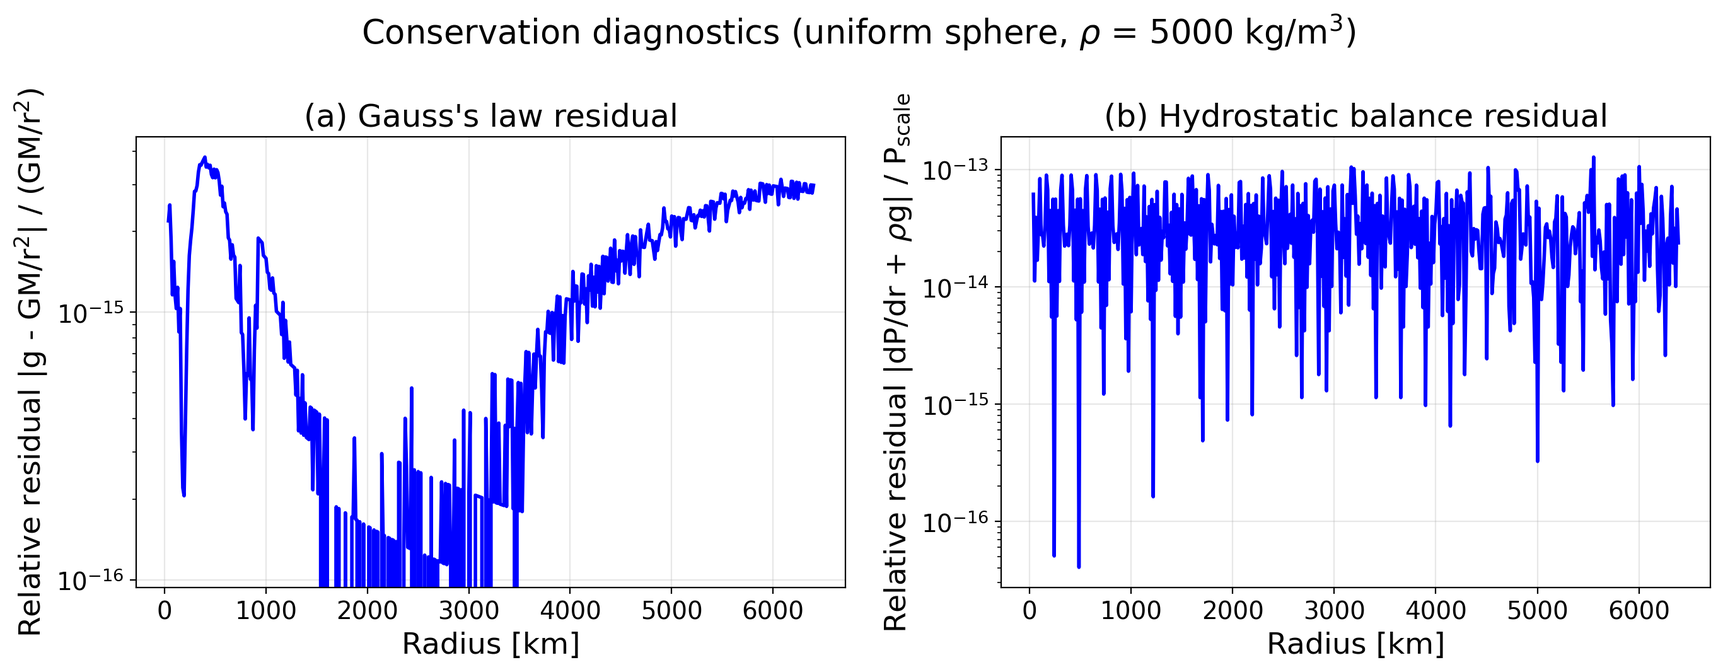
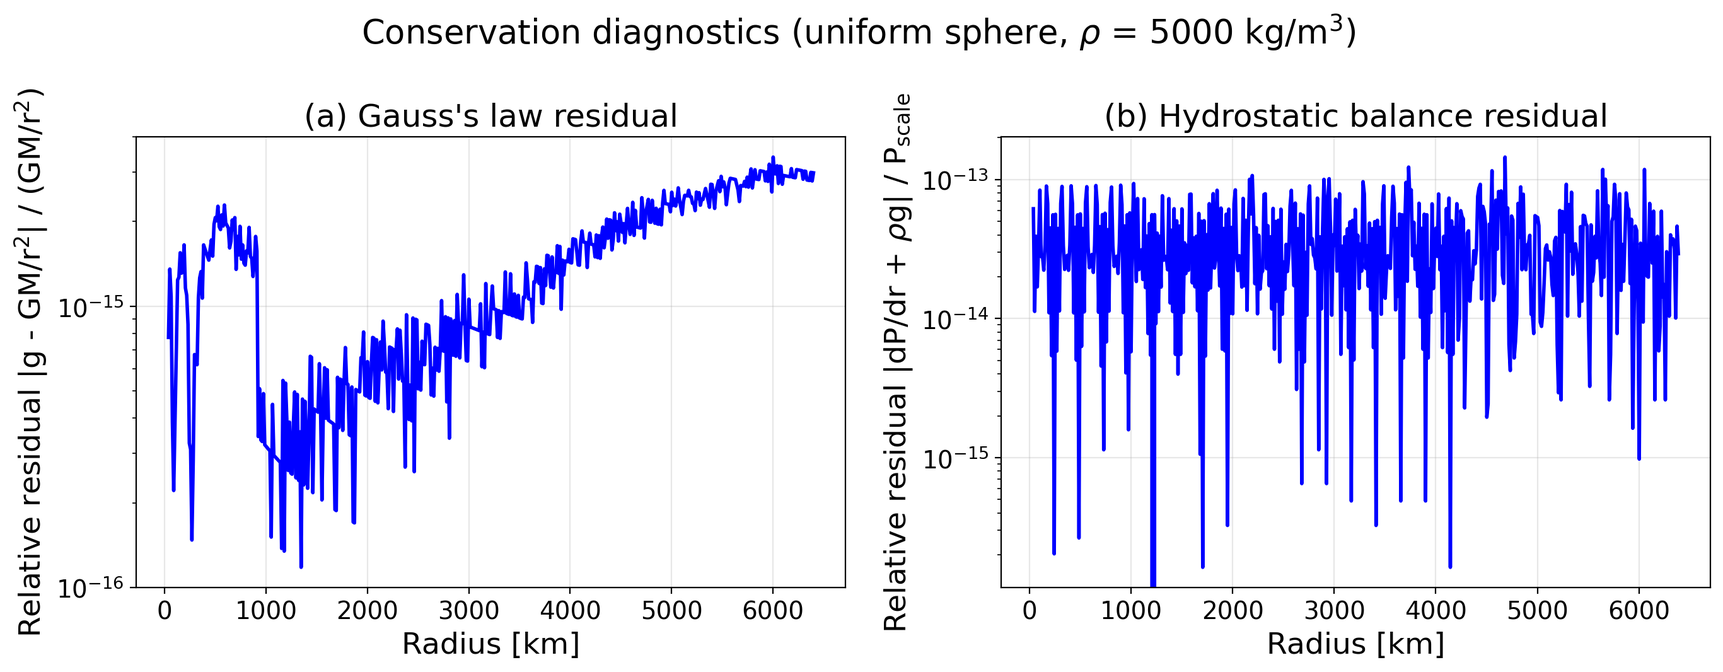
Define the terms and fix the numbers of the structure validation and tutorial pages
The validation page defines the Earth radius, the pressure solve and Brent's method, groups the cases by the density law they use, separates the computed central slope from the centre limit, and quotes the residuals of the current conservation figure, which is made again from the validation script. The index lists the 2 surface boundary cases. The tutorial defines the accept labels and the surface stop, writes its plot under output/, and states that a reached Newton profile can still miss P_t. The coupling page limits the P = 0 rebuild to the JAX path.

diff --git a/docs/Validation/hydrostatic_structure.md b/docs/Validation/hydrostatic_structure.md
@@ -14,20 +14,23 @@ The [overview](index.md) lists every case of the tab.
 **Terms of this page.**
 
 - $r$ and $R$: the radius, from 0 at the centre, and the outer radius of the planet.
+- $R_\oplus$: the Earth radius of `zalmoxis.constants`, 6335.4 km (the IAU value is 6371 km).
 - $M(r)$, $g(r)$, $P(r)$, $\rho(r)$: the mass inside radius $r$ (the enclosed mass, kg), the gravitational acceleration (m/s$^2$), the pressure (Pa) and the density (kg/m$^3$) at radius $r$; $G$ is the gravitational constant.
 - EOS (equation of state): the relation $\rho(P, T)$ between the density, the pressure and the temperature of a material.
 - CMB: the core-mantle boundary.
 - $N$ and `rtol`: the number of radial grid points, and the relative tolerance of the ODE integrator (RK45, an adaptive Runge-Kutta method of order 4 and 5).
 - Relative error: $|x_\mathrm{num} - x_\mathrm{exact}| / |x_\mathrm{exact}|$, the difference between the computed and the exact value, divided by the exact value.
 - Round-off level: a relative error of about $10^{-16}$ to $10^{-13}$, the size of the rounding error of floating-point arithmetic. A result at this level is exact within the precision of the computer.
-- Central pressure $P_c$: the pressure at the centre of the planet, the unknown of the pressure solve.
+- Central pressure $P_c$: the pressure at the centre of the planet.
+- Pressure solve: the loop that adjusts $P_c$ until the pressure at the outer radius equals the target surface pressure $P_t$ (written $P_\mathrm{target}$ on the process-flow page).
+- Brent's method (`scipy.optimize.brentq`): the root finder of the pressure solve. It narrows a bracket around a sign change of the residual and stops when the bracket is narrower than `xtol`.
 - Residual $f(P_c) = P(R) - P_t$: the pressure $P(R)$ at the outer radius $R$ minus the target surface pressure $P_t$.
 - Reached: the integration from a trial $P_c$ reaches the outer radius.
 - Padded: the integration stops before the outer radius, and the remaining nodes, the padded nodes, get zero pressure. The residual is then $-P_t$.
 - Sign pair: 2 neighbouring evaluated central pressures, with a finite negative residual at the lower one and a finite positive residual at the higher one, so $f$ changes sign between them. The higher one is the reached end.
 - PALEOS: the tabulated equations of state for iron, MgSiO$_3$ and water that Zalmoxis uses as its standard ([EOS physics](../Explanations/eos_physics.md)).
 - JAX path: an optional version of the structure integration in JAX, a Python library for compiled numerical code; it is off by default.
-- Picard outer solver: the default outer loop; it solves the structure for the current radius, measures the mass and updates the radius by damped cube-root scaling.
+- Picard outer solver: the default outer loop. It solves the structure for a trial radius, compares the computed mass with the planet mass, and rescales the radius.
 - Newton outer solver: the outer loop with Newton steps and a Brent fallback (`outer_solver = 'newton'`); PROTEUS uses it by default.
 
 ## Governing equations
@@ -47,15 +50,17 @@ $$
 \frac{dP}{dr} = -\rho(r)\, g(r)
 $$
 
-The first equation adds the mass of each thin shell, the second gives the gravity from the enclosed mass, and the third says that the pressure falls outward by the weight of the material above.
+The first equation adds the mass of each thin shell, the second is the derivative of $g = GM/r^2$, and the third says that the pressure falls outward by the weight of the material above.
 The integration runs outward from the centre ($r = 0$) with the initial conditions $M(0) = 0$, $g(0) = 0$ and $P(0) = P_c$.
 
 The gravity equation is singular at $r = 0$ because of the $2g/r$ term.
 L'Hopital's rule gives the limit $dg/dr|_{r=0} = \frac{4}{3}\pi G \rho_c$, and `coupled_odes` in `zalmoxis.structure_model` uses this limit at $r = 0$.
 
 An equation of state $\rho = \rho(P, T)$ closes the system.
-To check the equations without table data, Tests 1 to 4 fix $\rho$ to a constant, and Tests 5 to 7 use the Seager et al. (2007) analytic polytrope $\rho(P) = \rho_0 + c P^n$.
-Tests 5 and 6 are on the [mass-radius page](mass_radius.md).
+Tests 1 to 4 and the grid and tolerance parts of Test 7 fix $\rho$ to a constant.
+The n = 1 polytrope case uses $P = K\rho^2$.
+The full-solver part of Test 7, and Tests 5 and 6 on the [mass-radius page](mass_radius.md), use the Analytic EOS, the Seager et al. (2007) polytrope $\rho(P) = \rho_0 + c P^n$.
+None of these needs table data; the JAX cases and the Newton setups of the surface cases use the PALEOS tables.
 
 ## Test 1: Uniform-density sphere
 
@@ -67,7 +72,7 @@ Tests 5 and 6 are on the [mass-radius page](mass_radius.md).
 2. **Gravity profile:** $|g_\mathrm{num} - g_\mathrm{exact}| / g_\mathrm{exact} < 10^{-6}$ at all $r > 0$.
 3. **Pressure profile:** $|P_\mathrm{num} - P_\mathrm{exact}| / P_\mathrm{exact} < 10^{-6}$ where $P > 0$.
 4. **Central boundary conditions:** $M(0) = 0$, $g(0) = 0$ and $P(0) = P_c$ to machine precision.
-5. **Gravity slope at the centre:** the slope of the computed gravity over the first two grid steps matches $\frac{4}{3}\pi G \rho$ to $< 10^{-4}$.
+5. **Gravity slope at the centre:** the slope of the computed gravity over the first two grid steps matches $\frac{4}{3}\pi G \rho$ to $< 10^{-4}$. This is the slope that the integration produces, not the value that `coupled_odes` uses at $r = 0$.
 6. **Pressure monotonicity:** $dP/dr < 0$ everywhere $P > 0$, as hydrostatic equilibrium requires with positive density and gravity.
 
 **How we know the right answer.** For a sphere of constant density the equations have an exact closed-form solution, a textbook result with no free parameters:
@@ -86,7 +91,7 @@ The mass grows as $r^3$ (the volume of a sphere), gravity is linear in $r$ (Gaus
 
 **How to read the plot.** The three panels show (a) the enclosed mass, (b) the gravity and (c) the pressure against the radius in km. The solid line is the numerical solution and the dashed line is the analytic solution. A pass means that the two lines lie on top of each other. At $N = 300$ the largest relative errors are $2 \times 10^{-15}$ for the mass and the gravity and $4 \times 10^{-16}$ for the pressure, the round-off level.
 
-**Known limit.** This test does not check the value of the centre limit of $dg/dr$: when `coupled_odes` uses $\pi G \rho_c$ in place of $\frac{4}{3}\pi G \rho_c$ at $r = 0$, every case on this page still passes.
+**Known limit.** This test does not check the value of the centre limit of $dg/dr$: when `coupled_odes` uses $\pi G \rho_c$ in place of $\frac{4}{3}\pi G \rho_c$ at $r = 0$, every test of `tests/test_first_principles.py` and `tests/test_polytrope_verification.py` still passes.
 
 ??? info "Test details"
     - Reference: closed-form solution of the uniform-density sphere
@@ -98,20 +103,20 @@ The mass grows as $r^3$ (the volume of a sphere), gravity is linear in $r$ (Gaus
 
 **Why this check exists.** Zalmoxis assigns each radial shell to a layer (core or mantle) by the enclosed mass. If this assignment is wrong, for example if the core ends at 90 % of its mass, the mass profile differs from the piecewise exact solution and this test fails. Wrong coefficients in $dM/dr$ or $dg/dr$ also make it fail.
 
-**What it tests.** A sphere of two layers with constant densities: $\rho_c = 13{,}000$ kg/m$^3$ (an iron-like core) and $\rho_m = 4000$ kg/m$^3$ (a silicate-like mantle), with planet mass $M_p = 1\, M_\oplus$ and core mass fraction $f_c = 0.325$. The density jumps at the core-mantle boundary (CMB), the sharpest feature that the integrator must handle. The CMB radius is
+**What it tests.** A sphere of two layers with constant densities: $\rho_\mathrm{core} = 13{,}000$ kg/m$^3$ (an iron-like core) and $\rho_\mathrm{mantle} = 4000$ kg/m$^3$ (a silicate-like mantle), with planet mass $M_p = 1\, M_\oplus$ and core mass fraction $f_c = 0.325$. The density jumps at the core-mantle boundary (CMB), the sharpest feature that the integrator must handle. The CMB radius is
 
 $$
-R_\mathrm{cmb} = \left(\frac{3\, f_c\, M_p}{4\pi \rho_c}\right)^{1/3} = 3291 \text{ km}
+R_\mathrm{cmb} = \left(\frac{3\, f_c\, M_p}{4\pi \rho_\mathrm{core}}\right)^{1/3} = 3291 \text{ km}
 $$
 
-This is close to the Earth's CMB radius of 3480 km, and the planet radius is 6513 km (1.02 times 6371 km). The central pressure of this profile, 380 GPa, comes from integrating the hydrostatic equation over the known density profile. The integration starts 5 % above it, at 399 GPa, so that the pressure stays positive out to the surface. The test compares the enclosed mass with the exact solution and checks Gauss's law ($g = GM/r^2$) in both layers.
+This is close to the Earth's CMB radius of 3480 km, and the planet radius is 6513 km (1.02 times the IAU Earth radius of 6371 km). The central pressure of this profile, 380 GPa, comes from integrating the hydrostatic equation over the known density profile. The integration starts 5 % above it, at 399 GPa, so that the pressure stays positive out to the surface. The test compares the enclosed mass with the exact solution and checks Gauss's law ($g = GM/r^2$) in both layers.
 
 **How we know the right answer.** With two constant densities, the enclosed mass has an exact piecewise solution:
 
 $$
 M(r) = \begin{cases}
-\frac{4}{3}\pi \rho_c\, r^3 & r \le R_\mathrm{cmb} \\
-f_c M_p + \frac{4}{3}\pi \rho_m (r^3 - R_\mathrm{cmb}^3) & r > R_\mathrm{cmb}
+\frac{4}{3}\pi \rho_\mathrm{core}\, r^3 & r \le R_\mathrm{cmb} \\
+f_c M_p + \frac{4}{3}\pi \rho_\mathrm{mantle} (r^3 - R_\mathrm{cmb}^3) & r > R_\mathrm{cmb}
 \end{cases}
 $$
 
@@ -119,7 +124,7 @@ $$
 
 ![Two-layer sphere: enclosed mass against the piecewise solution, and gravity against Gauss's law](../img/validation/two_layer_sphere.png)
 
-**How to read the plot.** Panel (a) shows the enclosed mass against the radius in km, numerical (solid) and analytic (dashed), with the CMB as a dotted line. Panel (b) shows the numerical gravity and $GM(r)/r^2$. A pass means that the lines lie on top of each other on both sides of the CMB. The largest relative error of the mass is $3 \times 10^{-9}$, and Gauss's law holds to $1 \times 10^{-10}$ in both layers, so `get_layer_mixture()` assigns the shells correctly and the integrator crosses the density jump without oscillations.
+**How to read the plot.** Panel (a) shows the enclosed mass against the radius in km, numerical (solid) and analytic (dashed), with the CMB as a dotted line. Panel (b) shows the numerical gravity and $GM(r)/r^2$. A pass means that the lines lie on top of each other on both sides of the CMB. The largest relative error of the mass is $3 \times 10^{-9}$, and Gauss's law holds to $1.3 \times 10^{-10}$ in both layers, so `get_layer_mixture()` assigns the shells correctly and the integrator crosses the density jump without oscillations.
 
 ??? info "Test details"
     - Reference: piecewise closed-form solution of the two-layer sphere
@@ -134,7 +139,7 @@ $$
 **What it tests.** Two conservation laws must hold at every point of any physically consistent solution, for any EOS. The test checks them on the uniform-density sphere of Test 1.
 
 - **Gauss's law:** $g(r) = G\,M(r) / r^2$ for all $r > 0$. The relative residual $|g - GM/r^2| / (GM/r^2)$ measures how far the two integrated components drift apart.
-- **Hydrostatic balance:** $dP/dr + \rho\, g = 0$ at every interior point. This is the defining equation of the solver. The test computes $dP/dr$ by central finite differences and divides the residual by $P_\mathrm{scale} = \frac{2}{3}\pi G \rho^2 R$. For the uniform sphere $P(r)$ is a parabola, so the central difference is exact and the residual shows the integration error alone.
+- **Hydrostatic balance:** $dP/dr + \rho\, g = 0$ at every interior point. This is the defining equation of the solver. The test computes $dP/dr$ by central finite differences and divides the residual by $P_\mathrm{scale} = \frac{2}{3}\pi G \rho^2 R$, a pressure gradient scale in Pa/m. For the uniform sphere $P(r)$ is a parabola, so the central difference is exact and the residual shows the integration error alone.
 
 **How we know the right answer.** Gauss's law and hydrostatic balance follow from the equations themselves, so the exact residual is zero.
 
@@ -142,7 +147,7 @@ $$
 
 ![Conservation diagnostics: Gauss's law residual and hydrostatic balance residual against radius](../img/validation/conservation_diagnostics.png)
 
-**How to read the plot.** Panel (a) shows the relative Gauss's law residual and panel (b) the relative hydrostatic residual against the radius in km, on log scales. A pass means that both stay far below the tolerances of $10^{-5}$ and $10^{-4}$. On the 500-point grid of the figure the Gauss's law residual is at most $3.4 \times 10^{-15}$ and the hydrostatic residual at most $1.4 \times 10^{-13}$, the round-off level.
+**How to read the plot.** Panel (a) shows the relative Gauss's law residual and panel (b) the relative hydrostatic residual against the radius in km, on log scales. A pass means that both stay far below the tolerances of $10^{-5}$ and $10^{-4}$. On the 500-point grid of the figure the Gauss's law residual is at most $3.4 \times 10^{-15}$ and the hydrostatic residual at most $1.5 \times 10^{-13}$, the round-off level.
 
 ??? info "Test details"
     - Reference: Gauss's law $g = GM/r^2$ and hydrostatic balance $dP/dr + \rho g = 0$
@@ -164,7 +169,7 @@ The test integrates it with the trapezoidal rule over the $M(r)$ and $\rho(r)$ p
 
 **How we know the right answer.** For uniform density the integral has the closed form $E_\mathrm{grav} = -\frac{3}{5}\, G\, M_p^2 / R$. The numerical value agrees with it to $7 \times 10^{-6}$; the test asserts $< 1\%$.
 
-**Why it matters.** The binding energy is an integral of the whole profile, the kind of quantity that the energy budget of a planet uses.
+**Why it matters.** The binding energy integrates the whole profile, so an error that adds up over the planet shows here even when each point looks right.
 
 ??? info "Test details"
     - Reference: uniform-sphere binding energy $E_\mathrm{grav} = -\frac{3}{5} G M_p^2 / R$
@@ -180,7 +185,7 @@ The test integrates it with the trapezoidal rule over the $M(r)$ and $\rho(r)$ p
 
 **How we know the right answer.** For $n = 1$ the Lane-Emden equation of a polytrope has the closed-form solution $\rho(r) = \rho_c \sin\xi / \xi$ with $\xi = \pi r / R$.
 
-**Why it matters.** This is the only case on this page where the density depends on the pressure, so it checks the coupling of the integrator to an equation of state.
+**Why it matters.** Here the density follows the pressure and the right answer is still known in closed form, so this case checks the link between the integrator and an equation of state.
 
 ??? info "Test details"
     - Reference: the analytic $n = 1$ Lane-Emden solution (Chandrasekhar 1939, reference named in the test docstring)
@@ -190,12 +195,12 @@ The test integrates it with the trapezoidal rule over the $M(r)$ and $\rho(r)$ p
 
 ## Test 7: Numerical convergence
 
-**Why this check exists.** A finer grid or a tighter tolerance must not make the solution worse. If the error grew with $N$ or with a smaller `rtol`, the integrator settings would hide a fault. A wrong factor in $dM/dr$ or $dg/dr$, or the wrong sign of $dP/dr$, also makes the grid convergence test fail.
+**Why this check exists.** A finer grid or a tighter tolerance must not make the solution worse. An error that grew with $N$ or with a smaller `rtol` would show a fault in the step control of the integrator. A wrong factor in $dM/dr$ or $dg/dr$, or the wrong sign of $dP/dr$, also makes the grid convergence test fail.
 
 **What it tests.** The uniform-density sphere of Test 1 on several grids and with several tolerances, and the full solver (Picard iteration and Brent root-finding) with the Analytic EOS at $1\,M_\oplus$ on 3 grids.
 
 - **Grid convergence:** the uniform sphere at $N$ from 50 to 400 (the figure uses 25 to 800) with `rtol` $= 10^{-10}$. The mass error is $2$ to $3 \times 10^{-15}$ and the pressure error about $4 \times 10^{-16}$ at every $N$. The uniform-sphere solution is a cubic and a parabola in $r$, which the integrator reproduces to round-off on every grid, so this case shows no convergence rate.
-- **Full solver:** the planet radius is the same, $0.96512\,R_\oplus$, at $N = 100$, 200 and 400.
+- **Full solver:** the planet radius is the same, $0.96512\,R_\oplus$ (6114.5 km), at $N = 100$, 200 and 400.
 - **Tolerance convergence:** for `rtol` from $10^{-6}$ to $10^{-12}$ at $N = 200$ the mass error stays between $2$ and $4 \times 10^{-15}$, with no trend: the error is at round-off level for every tolerance tested.
 
 **How we know the right answer.** The closed-form solution of Test 1 gives the error. For the full solver, the radius on the finer grid ($N = 400$) is the reference for the radius at $N = 200$ (self-consistency).
@@ -204,7 +209,7 @@ The test integrates it with the trapezoidal rule over the $M(r)$ and $\rho(r)$ p
 
 ![Grid convergence: largest relative mass and pressure error against the number of radial grid points](../img/validation/grid_convergence.png)
 
-**How to read the plot.** The x-axis is the number of radial grid points and the y-axis the largest relative error, both on log scales. A pass means that the errors do not grow with $N$.
+**How to read the plot.** The figure shows the grid part, with $N$ from 25 to 800. The x-axis is the number of radial grid points and the y-axis the largest relative error, both on log scales. The blue line is the mass error and the red line the pressure error. Both are flat, because the exact solution is a cubic and a parabola in $r$, which the integrator reproduces to round-off on every grid. A line that rose with $N$ would fail the test.
 
 ??? info "Test details"
     - Reference: closed-form solution of the uniform-density sphere; for the full solver, the radius at $N = 200$ against $N = 400$ (self-consistency)
@@ -216,7 +221,7 @@ The test integrates it with the trapezoidal rule over the $M(r)$ and $\rho(r)$ p
 
 **Why this check exists.** The optional JAX path (`use_jax = True`) evaluates the right-hand side of the structure equations in its own code, `zalmoxis.jax_eos.rhs.coupled_odes_jax`. If it differs from the numpy `zalmoxis.structure_model.coupled_odes` by more than the tolerance, a JAX run gives another structure than a numpy run, and these tests fail.
 
-**What it tests.** The cases compare $dM/dr$, $dg/dr$ and $dP/dr$ of the two codes on the same states. The table cases draw random states with a fixed seed: $r$ from $10^5$ to $6.4 \times 10^6$ m, $M$ from 0 to $1\, M_\oplus$, $g$ from 0.5 to 25 m/s$^2$ and $P$ from $10^6$ to $3 \times 10^{11}$ Pa, with a PALEOS iron core and a PALEOS MgSiO$_3$ mantle. A state counts when both implementations return a nonzero right-hand side. JAX must never return a nonzero value where numpy returns zero; numpy may return a nonzero value where JAX returns zero in at most 4 of 200 states (the nearest-neighbour fallback of the numpy tables, which the JAX path does not have); more than 100 states must count. The synthetic cases build small tables in memory, so they need no EOS files and run in the unit tier.
+**What it tests.** The cases compare $dM/dr$, $dg/dr$ and $dP/dr$ of the two codes on the same states. Each table case draws random states with a fixed seed: $r$ from $10^5$ to $6.4 \times 10^6$ m, $M$ from 0 to $1\, M_\oplus$, $g$ from 0.5 to 25 m/s$^2$ and $P$ from $10^6$ to $3 \times 10^{11}$ Pa, with a PALEOS iron core and a PALEOS MgSiO$_3$ mantle. A state counts when both codes return a nonzero right-hand side, and more than 100 states must count. JAX must never return a nonzero value where numpy returns zero. Numpy may return a nonzero value where JAX returns zero in at most 4 of 200 states: the numpy tables have a nearest-neighbour fallback, and the JAX path has none. The synthetic cases build small tables in memory, so they need no EOS files and run in the unit tier.
 
 | Test id | Mantle | Tolerance | Tier |
 |---|---|---|---|
@@ -281,7 +286,7 @@ A second test checks the same rule with real structure solves. It uses the Analy
 ![Surface pressure miss of the accepted profile for 26 solver setups](../assets/validation/pressure_root_sweep.svg#only-light){ width="80%" }
 ![Surface pressure miss of the accepted profile for 26 solver setups](../assets/validation/pressure_root_sweep_dark.svg#only-dark){ width="80%" }
 
-**How to read the plot.** The x-axis is the number of the setup, for 26 setups built from `input/default.toml`. The y-axis is $\lvert P(R) - P_t \rvert / P_t$ of the accepted profile, on a log scale. Circles are reached profiles, squares are padded profiles (at 1, since $P(R) = 0$), and a cross above the cap marks a setup without an accepted profile. The dashed line is the cap of $P_t$. Setups 4, 9, 10, 13, 14 and 25 use the Newton outer solver at `relative_tolerance` $10^{-9}$; [padded accepts](../Explanations/process_flow.md#padded-accepts) lists every setup. A pass means that every Newton setup is a circle at or below the dashed line. Only setup 10 may be a square, and only under the rule of the JAX path above.
+**How to read the plot.** The x-axis is the number of the setup, for 26 setups built from `input/default.toml` and numbered from 0 to 25. The y-axis is $\lvert P(R) - P_t \rvert / P_t$ of the accepted profile, on a log scale. Circles are reached profiles, squares are padded profiles (at 1, since $P(R) = 0$), and a cross above the cap marks a setup without an accepted profile. The dashed line is the cap of $P_t$. Setups 4, 9, 10, 13, 14 and 25 use the Newton outer solver at `relative_tolerance` $10^{-9}$; [padded accepts](../Explanations/process_flow.md#padded-accepts) lists every setup. A pass means that every Newton setup is a circle at or below the dashed line. Only setup 10 may be a square, and only under the rule of the JAX path above.
 
 **Known limit.** The miss of a reached profile depends on round-off, so another platform gives other values. Over planet-mass changes of $k \times 10^{-13}$ ($k$ = 1 to 5), the PALEOS 1 Earth-mass Newton setup misses by 0.008 to 0.87 $P_t$. The test skips when the PALEOS tables are not under `data/`.
 

diff --git a/docs/Tutorials/surface_pressure.md b/docs/Tutorials/surface_pressure.md
@@ -5,7 +5,7 @@ You will run a 1 $M_\oplus$ planet, read the pressure at its outer radius, look 
 
 You need a working installation with the PALEOS tables under `data/` (see [First run](firstrun.md), Step 1).
 Run every block from the repository root, in one Python session, in the order of the steps.
-The whole tutorial takes about 10 minutes on a laptop; most of it is in Steps 2 and 4.
+The whole tutorial took about 10 minutes on our machine; most of it is in Step 4 (about 5.5 minutes).
 
 ## Step 1: solve a structure and read its surface pressure
 
@@ -68,7 +68,8 @@ The solve accepted the profile, but its outer node has $P = 0$, not $P_t$: the p
 The integration from the accepted $P_c$ stopped at $P = 0$ just below the outer radius, and the node past the stop got $P = 0$.
 The solver logs one warning for such a result (`The accepted profile ends in a surface stop: ...`).
 The accept test passes it because the miss, $P_t$, is below `pressure_tolerance` ($10^9$ Pa by default).
-Whether a profile ends padded depends on round-off, so your run can end reached; the steps below show why.
+`accepted_on` names the test that accepted the structure: `strict` means that the mass, density and pressure tests all passed ([Convergence Checks](../Explanations/process_flow.md#convergence-checks) lists every label).
+Whether a profile ends padded depends on round-off, so your run can end reached; Step 2 shows the trials that decide it.
 
 ## Step 2: look at the central pressures the solve tried
 
@@ -79,13 +80,13 @@ f(P_c) = P(R) - P_t,
 $$
 
 the pressure at the outer radius minus the target, as a function of the trial central pressure.
-A trial $P_c$ that is too low lets the pressure reach 0 before $R$: the integration stops, the profile is padded, and $f = -P_t$.
+A trial $P_c$ that is too low lets the pressure reach 0 before $R$: the integration stops there (a **surface stop**), the profile is padded, and $f = -P_t$.
 A trial $P_c$ whose integration reaches the outer radius gives a **reached** profile with $f = P(R) - P_t$.
 Two neighbouring trial pressures with a negative residual at the lower one and a positive residual at the higher one form a **sign pair**: the root lies between them, and the higher one is the reached end.
 
 The solver does not return its trials, but at the `DEBUG` log level it writes the pressure profile of every trial to `output/pressure_profiles.txt`.
 The first row of each profile is $P_c$ and the last row is $P(R)$.
-The block below solves the planet again with that file (about 50 MB), and reads the trials of the last pressure solve of the run.
+The block below solves the planet again at that level, which writes this file and `output/density_profiles.txt` (about 50 MB each), and reads the trials of the last pressure solve of the run.
 
 ```python
 import logging
@@ -150,15 +151,15 @@ ax.axhline(0.0, ls='--', color='grey')
 ax.set_xlabel(r'$P_c$ - accepted $P_c$ [MPa]')
 ax.set_ylabel(r'$f = P(R) - P_t$ [bar]')
 fig.tight_layout()
-fig.savefig('surface_pressure_residual.png')
+fig.savefig(os.path.join(root, 'output', 'surface_pressure_residual.png'))
 ```
 
-Open `surface_pressure_residual.png`: the padded trials lie at $-1.01$ bar, just below the dashed zero line, and the 2 reached trials lie at about 416 and 443 bar.
+Open `output/surface_pressure_residual.png`: the padded trials lie at $-1.01$ bar, just below the dashed zero line, and the 2 reached trials lie at about 416 and 443 bar.
 
 ## Step 3: see how the solve refines a padded root
 
 After Brent's method returns a root that misses $P_t$ by more than $0.1 P_t$, the solve can run a second, finer Brent solve on the nearest sign pair, and it keeps the candidate closest to the target ([Padded accepts](../Explanations/process_flow.md#padded-accepts) gives the full rule).
-Whether a real solve needs this depends on round-off, so this step uses a residual written down by hand, the one of the validation case [Surface boundary condition of the pressure solve](../Validation/hydrostatic_structure.md#surface-boundary-condition-of-the-pressure-solve).
+Whether a real solve needs this depends on round-off, so this step uses a residual written down by hand (and `P_t` from Step 2), the one of the validation case [Surface boundary condition of the pressure solve](../Validation/hydrostatic_structure.md#surface-boundary-condition-of-the-pressure-solve).
 Below $x_0 = 2 \times 10^{11}$ Pa the integration stops; above it $P(R)$ rises from $0.95\,P_t$ with a slope $dP(R)/dP_c$ of 0.47.
 The refinement is the private function `solver._refine_pressure_root`; the block calls it directly to show the rule, and a real solve calls it for you.
 
@@ -195,7 +196,8 @@ The second solve on the sign pair around $x_0$ finds a reached root that misses 
 
 The script `tools/validation/pressure_root_sweep.py` runs 26 solver setups built from `input/default.toml` and records how each accepted profile meets $P_t$.
 The `case` command runs one setup and writes its record.
-Run 3 setups: 1 (the Analytic EOS at 1 $M_\oplus$ with the Picard outer solver), 8 (`input/default.toml` itself) and 9 (the same planet with the Newton outer solver at `relative_tolerance` $10^{-9}$).
+The setups are numbered from 0 to 25. Run 3 of them: 1 (the Analytic EOS, a closed-form equation of state without tables, at 1 $M_\oplus$ with the Picard outer solver), 8 (`input/default.toml` itself, PALEOS tables and the Picard outer solver) and 9 (the same planet with the Newton outer solver at `relative_tolerance` $10^{-9}$).
+The Picard outer solver, the default, rescales the radius until the computed mass equals the planet mass; the Newton outer solver takes Newton steps on the radius.
 Setup 9 takes about 4 minutes.
 
 ```console
@@ -226,7 +228,8 @@ setup 9 PALEOS 1, Newton: newton_tol, P(R) = 1.393e+05 Pa, miss 0.375 P_t, padde
 ```
 
 The command `python -m tools.validation.pressure_root_sweep run <dir> -j 2` runs all 26 setups, and `python -m tools.validation.pressure_root_sweep plot <dir>` draws them; the figure of all 26 setups is on the [validation page](../Validation/hydrostatic_structure.md#surface-boundary-condition-in-every-newton-setup).
-In it, most Picard setups end padded, and the Newton setups at `relative_tolerance` $10^{-9}$ reach the outer radius.
+In it, 15 of the 19 Picard setups that return a profile end padded, and 5 of the 6 Newton setups at `relative_tolerance` $10^{-9}$ reach the outer radius; setup 10 (PALEOS on the JAX path) ends padded.
+Reached means that the integration reaches $R$, not that $P(R) = P_t$: setup 9 above misses $P_t$ by 0.375 $P_t$.
 
 ## Step 5: what to do with a padded or missing surface pressure
 
@@ -234,7 +237,7 @@ First decide whether the surface values matter for your use.
 A padded result passed the accept tests of the solve, and in this tutorial only its outermost node has $P = 0$ instead of $P_t$.
 If you need $P(R) = P_t$, these settings matter:
 
-- **The outer solver.** `outer_solver = "newton"` with `relative_tolerance = 1e-9` reached the outer radius in setup 9 above, where the default Picard solve ended padded. PROTEUS uses the Newton outer solver by default. It takes longer (about 4 minutes here against 1.5).
+- **The outer solver.** `outer_solver = "newton"` with `relative_tolerance = 1e-9` reached the outer radius in setup 9 above, where the default Picard solve ended padded; it still missed $P_t$ by 0.375 $P_t$. PROTEUS uses the Newton outer solver by default. It takes longer (about 4 minutes here against 1.5).
 - **`pressure_tolerance`.** This is the accept test of the pressure solve, $\lvert P(R) - P_t \rvert$ below it. A value below $P_t$ makes the test refuse a padded profile, but the outer loop can still accept the structure on its mass test, as the block below shows.
 - **The integration tolerances** (`relative_tolerance`, `absolute_tolerance`). They change where the integration stops, and so whether the trials near the root pad. Setup 9 changes them together with the outer solver, so this tutorial does not separate the two effects.
 
@@ -253,7 +256,7 @@ padded True, nodes with P = 0: 1 of 150
 pressure test passed: False
 ```
 
-With `pressure_tolerance` below $P_t$ the pressure test fails, and the outer loop accepts the structure on its mass test (`mass_only`): the profile stays padded.
+With `pressure_tolerance` below $P_t$ the pressure test fails, and the outer loop accepts the structure on its mass test alone (`mass_only`: the mass converged, the density or the pressure did not): the profile stays padded.
 So check `padded` and $P(R)$ of every result whose surface values you use, as in Step 1.
 
 ## Summary
@@ -261,6 +264,6 @@ So check `padded` and $P(R)$ of every result whose surface values you use, as in
 - `result['pressure'][-1]` is $P(R)$; compare it with `target_surface_pressure`.
 - `result['padded']` is True when the outer node has $P = 0$; Zalmoxis then logs one warning.
 - The pressure solve refines a root that misses $P_t$ by more than $0.1 P_t$, and keeps the candidate closest to $P_t$.
-- The Newton outer solver at `relative_tolerance` $10^{-9}$ reached the outer radius in this tutorial; a lower `pressure_tolerance` alone did not.
+- The Newton outer solver at `relative_tolerance` $10^{-9}$ reached the outer radius in this tutorial, with a miss of 0.375 $P_t$; a lower `pressure_tolerance` alone did not reach it.
 
 [Padded accepts](../Explanations/process_flow.md#padded-accepts) explains the full rule, and the [validation page](../Validation/hydrostatic_structure.md#surface-boundary-condition-of-the-pressure-solve) shows how it is tested.

diff --git a/docs/Validation/index.md b/docs/Validation/index.md
@@ -23,6 +23,8 @@ All tests are implemented in [`tests/test_first_principles.py`](https://github.c
 | [Hydrostatic structure](hydrostatic_structure.md) | n = 1 polytrope | `tests/test_polytrope_verification.py` | analytic Lane-Emden solution | smoke tier |
 | [Hydrostatic structure](hydrostatic_structure.md) | Numerical convergence | `tests/test_first_principles.py::TestGridConvergence`, `::TestToleranceConvergence` | closed-form solution of the uniform sphere | slow tier; script figure |
 | [Hydrostatic structure](hydrostatic_structure.md) | JAX and numpy right-hand sides | `tests/test_jax_unified_mantle_parity.py::test_unified_mantle_dry_parity` and 5 more | numpy `coupled_odes` (cross-code check) | unit and integration tiers; plot pair |
+| [Hydrostatic structure](hydrostatic_structure.md) | Surface boundary condition of the pressure solve | `tests/test_pressure_root.py::test_the_refined_root_meets_the_surface_boundary_condition`, `tests/test_pressure_root_solves.py::test_the_accepted_root_meets_the_surface_boundary_condition` | boundary condition $P(R) = P_t$ | unit and smoke tiers; plot pair |
+| [Hydrostatic structure](hydrostatic_structure.md) | Surface boundary condition in every Newton setup | `tests/test_pressure_root_solves.py::test_every_newton_setup_meets_the_surface_boundary_condition` | boundary condition $P(R) = P_t$ | nightly job `accept_solves_newton_setups`; script figure |
 | [Mass-radius relation](mass_radius.md) | Earth benchmark | `tests/test_first_principles.py::TestEarthBenchmark` | Earth radius, surface gravity, central pressure | smoke tier; script figure |
 | [Mass-radius relation](mass_radius.md) | Mass-radius scaling and CMF sensitivity | `tests/test_first_principles.py::TestMassRadiusScaling`, `::TestCMFMonotonicity`, `::TestPureIronPlanet`, `::TestConservationLaws` | [Seager et al. (2007)](https://iopscience.iop.org/article/10.1086/521346) | smoke tier; script figures |
 | [Equation of state](equation_of_state.md) | PALEOS table loader | `tests/test_eos_export_real_tables.py`, `tests/test_eos_export_highres.py` | `numpy.genfromtxt` reading of the same tables (cross-code check) | integration and slow tiers |
@@ -36,7 +38,7 @@ All tests are implemented in [`tests/test_first_principles.py`](https://github.c
 |------|--------|------------|--------|
 | 1. Uniform sphere | ODE integration | $\|M_\mathrm{num} - M_\mathrm{exact}\|/M_\mathrm{exact}$ | $2 \times 10^{-15}$ (test: $< 10^{-6}$) |
 | 2. Two-layer sphere | Layer transitions | $\|M_\mathrm{num} - M_\mathrm{exact}\|/M_\mathrm{exact}$ | $3 \times 10^{-9}$ (test: $< 10^{-5}$) |
-| 3. Conservation | Gauss + hydrostatic | Pointwise residuals | $\le 1.4 \times 10^{-13}$ (test: $< 10^{-5}$, $< 10^{-4}$) |
+| 3. Conservation | Gauss + hydrostatic | Pointwise residuals | $\le 1.5 \times 10^{-13}$ (test: $< 10^{-5}$, $< 10^{-4}$) |
 | 4. Binding energy | Energy integral | $\|E_\mathrm{num} - E_\mathrm{exact}\|/\|E_\mathrm{exact}\|$ | $7 \times 10^{-6}$ (test: $< 1\%$) |
 | 5. Earth benchmark | Full solver | $R_p$, $P_c$, $g_\mathrm{surf}$ against 6371 km, 365 GPa, 9.81 m/s$^2$ | 4%, 7%, 9% |
 | 6. M-R scaling | Physics | $\alpha$ in $R \propto M^\alpha$ | 0.293 (expected $\sim 0.27$) |

diff --git a/docs/Explanations/code_architecture.md b/docs/Explanations/code_architecture.md
@@ -164,7 +164,7 @@ Inside a fixed $R$, alternate between integrating the structure ODE (yielding $P
 
 ### Innermost: structure ODE
 
-`solve_structure` integrates the coupled ODEs from the centre to the surface with adaptive RK45 (or Tsit5 on the JAX path). A terminal event at $P = 0$ stops the integration cleanly when the central-pressure guess is too low. The central pressure $P_c$ that satisfies $P(R) = P_{\mathrm{target}}$ is found by `scipy.optimize.brentq` over a guarded bracket. `_solve` passes each Brent root to `_refine_pressure_root` (`solver.py:2227`), which solves again on the nearest sign pair when the root misses $P_{\mathrm{target}}$ by more than $0.1 P_{\mathrm{target}}$, and `main` returns `padded = True` when the accepted profile has $P = 0$ at the outer radius ([Padded accepts](process_flow.md#padded-accepts)). `coupled_odes()` returns $[0, 0, 0]$ at non-physical trial points so the adaptive controller rejects the step rather than crashing.
+`solve_structure` integrates the coupled ODEs from the centre to the surface with adaptive RK45 (or Tsit5 on the JAX path). A terminal event at $P = 0$ stops the integration cleanly when the central-pressure guess is too low. The central pressure $P_c$ that satisfies $P(R) = P_{\mathrm{target}}$ is found by `scipy.optimize.brentq` over a guarded bracket. `_solve` passes each Brent root to `_refine_pressure_root`, which can solve again on the nearest sign pair when the root misses $P_{\mathrm{target}}$ by more than $0.1 P_{\mathrm{target}}$, and `main` returns `padded = True` when the accepted profile has $P = 0$ at the outer radius ([Padded accepts](process_flow.md#padded-accepts)). `coupled_odes()` returns $[0, 0, 0]$ at non-physical trial points so the adaptive controller rejects the step rather than crashing.
 
 ### Adiabat anchor: surface vs CMB
 

diff --git a/docs/How-to/grids.md b/docs/How-to/grids.md
@@ -153,7 +153,7 @@ Each grid run produces:
 
     The comment header carries the scalar mass diagnostics (`cmb_mass`, `core_mantle_mass`), the `converged` flag, the run label, and the per-layer EOS and melting-curve identifiers (`core_eos`, `mantle_eos`, `ice_layer_eos`, `rock_solidus_id`, `rock_liquidus_id`).
 
-    CSVs are written for non-converged grid points too (useful for debugging), but the last row of `radius_m` and `mass_enclosed_kg` in those cases is the last Picard iterate, not the planet's converged structure, and `density_kg_m3` can contain NaN or zero in failed or padded shells. Filter on `converged == True` before plotting. A converged profile can still be padded: its last `pressure_Pa` row is 0 instead of the target surface pressure ([padded accepts](../Explanations/process_flow.md#padded-accepts)), so check that row when you use the surface values.
+    CSVs are written for non-converged grid points too (useful for debugging), but the last row of `radius_m` and `mass_enclosed_kg` in those cases is the last Picard iterate, not the planet's converged structure, and `density_kg_m3` can contain NaN in failed shells, and zero in the padded shells of a result without a pressure solve. Filter on `converged == True` before plotting. A converged profile can still be padded: its last `pressure_Pa` row is 0 instead of the target surface pressure ([padded accepts](../Explanations/process_flow.md#padded-accepts)), so check that row when you use the surface values.
 
 Plotting is always disabled during grid runs for speed. To generate the per-planet matplotlib plots for a specific parameter combination, run that case individually (`python -m zalmoxis -c <cfg>.toml`) with `plots_enabled = true`.
 

diff --git a/docs/Explanations/proteus_coupling.md b/docs/Explanations/proteus_coupling.md
@@ -120,8 +120,9 @@ Zalmoxis reads the current planet state from `hf_row`, runs its structure solve,
 
 **Padded profiles in a coupled run.** A structure whose integration stops at $P = 0$ before the outer radius is padded: the nodes past the stop hold $P = 0$, and the result has `padded = True` ([Padded accepts](process_flow.md#padded-accepts)).
 PROTEUS does not read `padded`.
-It reads the profiles and the convergence flags, and on the JAX path with Aragog temperature arrays it rebuilds the density and temperature columns, where it evaluates a node with $P = 0$ at the target surface pressure (`src/proteus/interior_struct/zalmoxis.py:3778`).
-A coupled run therefore sees a padded node as surface material at the target pressure, and Zalmoxis logs one warning when it returns such a profile.
+It reads the profiles and the convergence flags.
+On the JAX path with Aragog temperature arrays, `zalmoxis_solver` in `src/proteus/interior_struct/zalmoxis.py` rebuilds the density and temperature columns and evaluates a node with $P = 0$ at the target surface pressure; on the other paths a padded node keeps $P = 0$.
+Zalmoxis logs one warning when it returns a converged padded profile.
 
 The full set of TOML-derived inputs the wrapper translates is in `load_zalmoxis_configuration` (see `interior_struct/zalmoxis.py` lines ~420-564). Every TOML key from `[interior_struct]` and `[interior_struct.zalmoxis]` lands either in the Zalmoxis dict, in a derived helper (`mushy_zone_factors`, `_resolve_zalmoxis_temperature_mode`, `_resolve_zalmoxis_cmb_temperature`), or in a runtime gate (the JAX-disable path on init / equilibration calls is gated on whether the caller supplied `temperature_arrays`).
 

diff --git a/docs/How-to/configuration.md b/docs/How-to/configuration.md
@@ -464,7 +464,8 @@ The default values work well for Earth-mass planets with the default EOS. For ot
 
 Controls the Brent root-finding solver that determines the central pressure.
 The solver searches with `brentq` for the central pressure $P_c$ at which the surface pressure after ODE integration equals the target; `pressure_tolerance` is the accept test of the profile at the root it returns.
-Before this test, a root that misses the target by more than $0.1 P_\mathrm{target}$ can get a second Brent solve on its nearest sign pair, and the retry after an unconverged Picard solve runs with 0.1 times `pressure_tolerance` ([padded accepts](../Explanations/process_flow.md#padded-accepts)).
+Before this test, a root that misses the target by more than $0.1 P_\mathrm{target}$ can get a second Brent solve on its nearest sign pair ([padded accepts](../Explanations/process_flow.md#padded-accepts)).
+The retry after an unconverged Picard solve runs with 0.1 times `pressure_tolerance`.
 See the [process flow documentation](../Explanations/process_flow.md#pressure-solver-brents-method) for details on the algorithm.
 
 | Parameter | Type | Unit | Default | Description |
